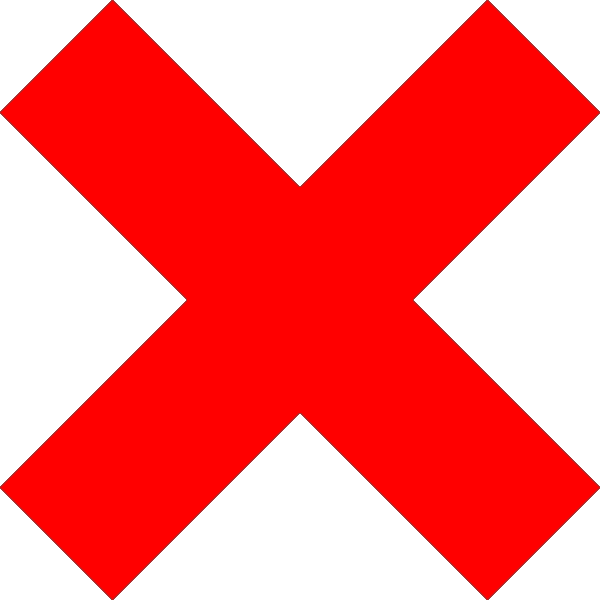
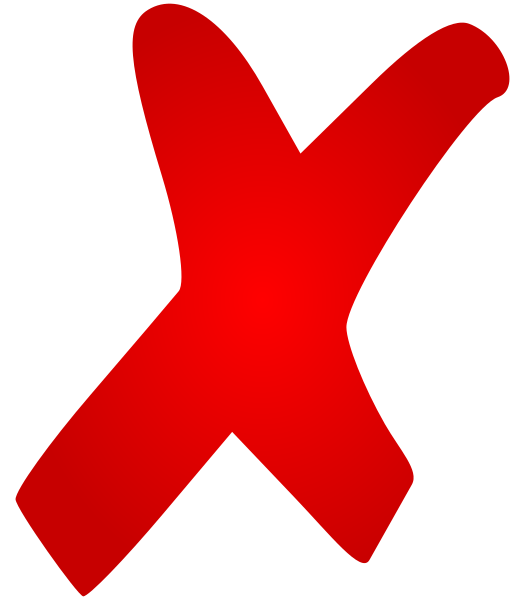
change X sign

diff --git a/style.css b/style.css
@@ -39,7 +39,7 @@ h4 {
 
 .classX {
     background-image: url("Xsign.png");
-    background-size: contain;
+    background-size: cover;
 }
 
 .classO {
